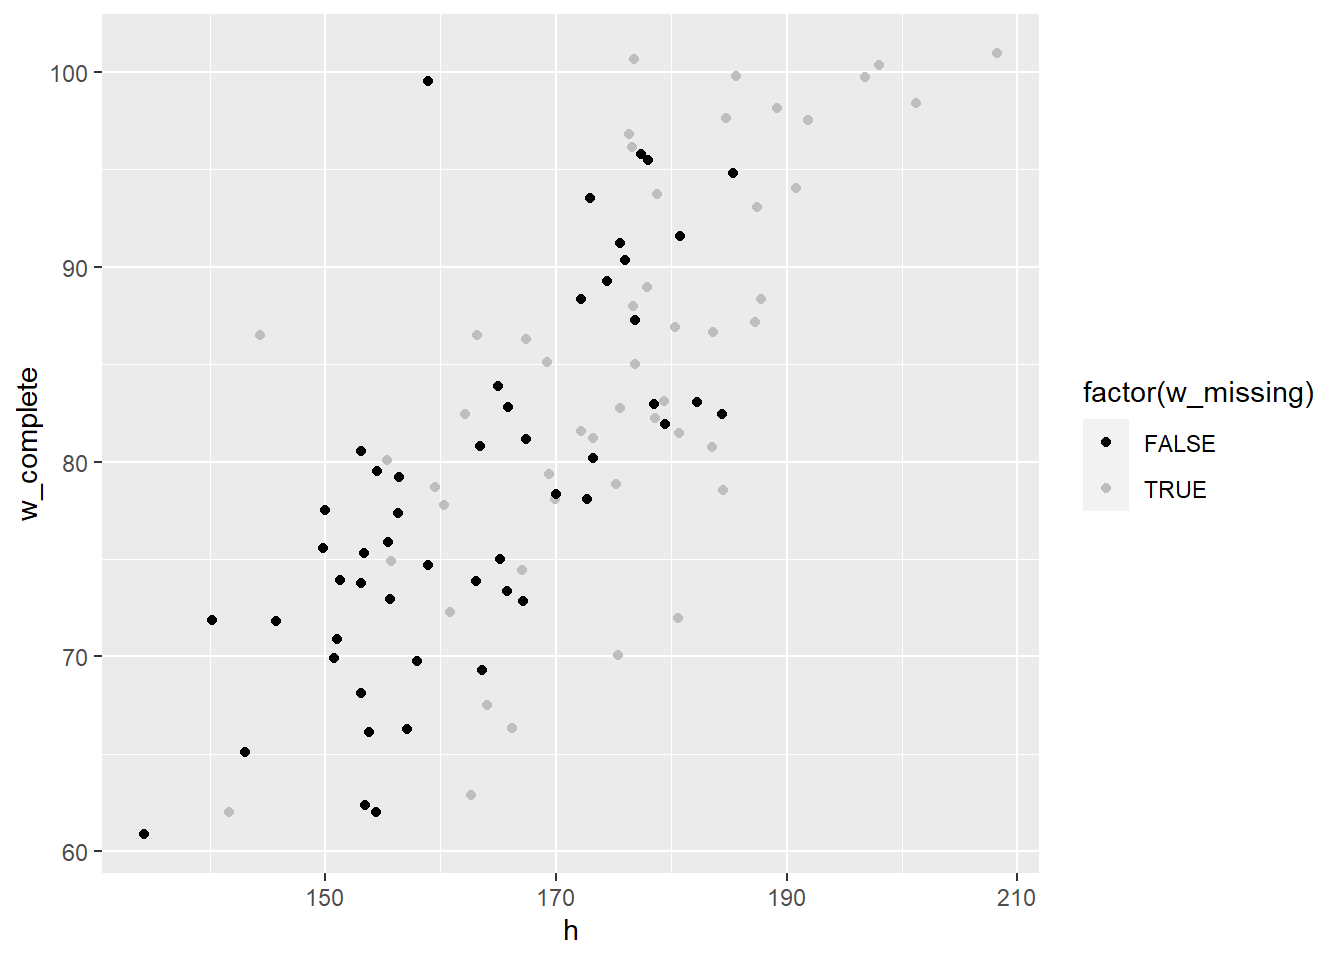
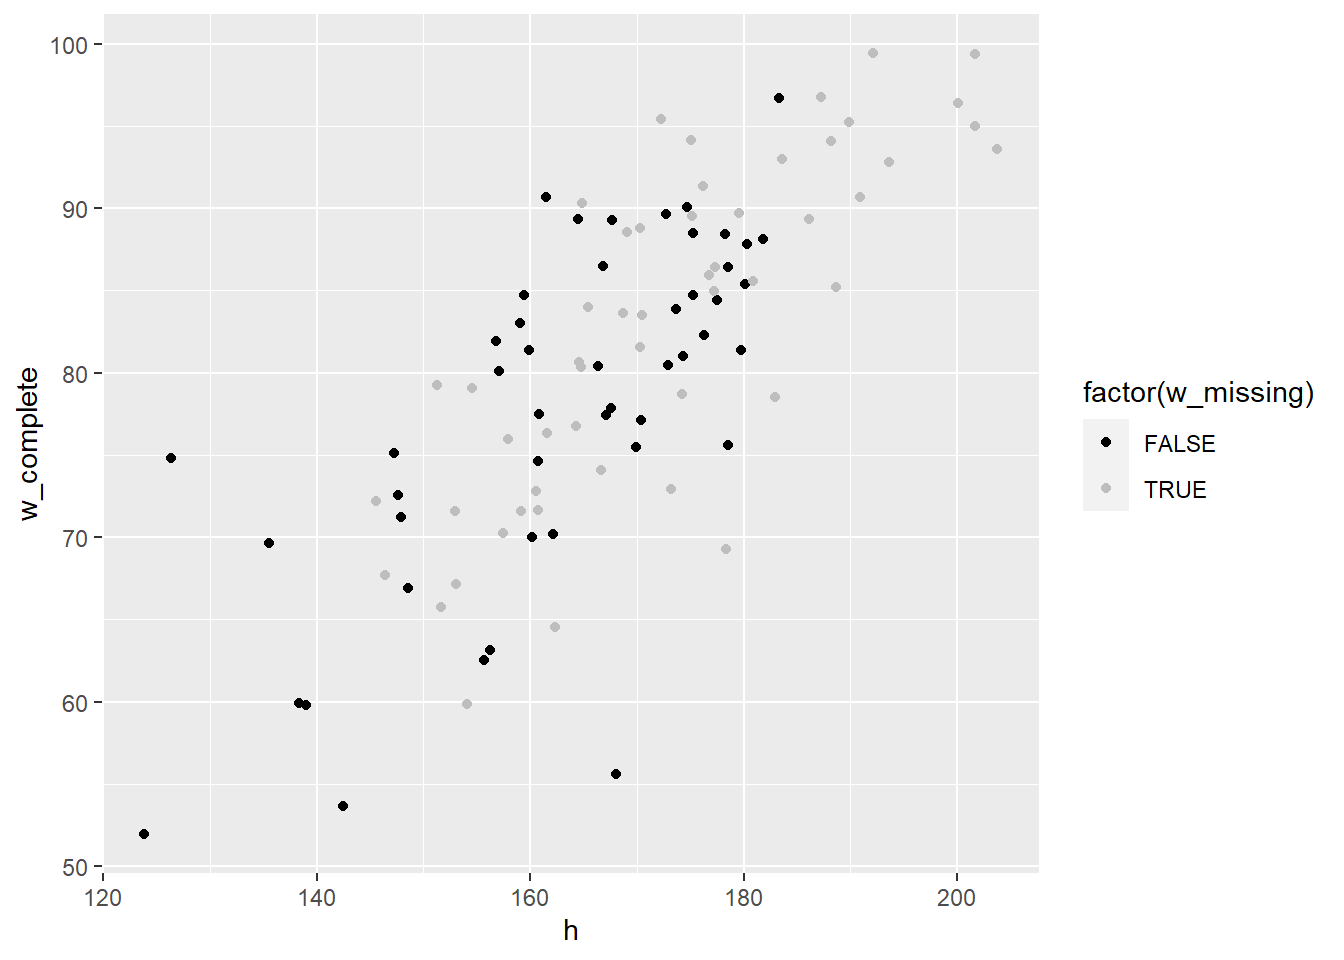
missing data: ad added

diff --git a/2022/03/25/why-single-mean-imputation-is-a-bad-idea-almost-always/index.html b/2022/03/25/why-single-mean-imputation-is-a-bad-idea-almost-always/index.html
@@ -102,6 +102,9 @@
 <p>It is like flipping coin again. But it could be a different coin for different value of explanatory variables.</p>
 <p>If it is neither MCAR nor MAR, it is called <strong>NMAR</strong>. For example, if the missingness of weight is dependent on weight itself, it is NMAR.</p>
 <p>For predictive models, it is sufficient of check if missingness is random conditional on other observed variables. But for causal model, we should consider if there is unobserved variables that might cause or be related to missingness. For now, I will consider only predictive models.<a href="#fn1" class="footnote-ref" id="fnref1"><sup>1</sup></a></p>
+<ul>
+<li>[<strong>AD</strong>] Book for <strong>R power users</strong> : <a href="http://books.sumeun.org/?p=190">Data Analysis with R: Data Preprocessing and Visualization</a></li>
+</ul>
 </div>
 <div id="why-not-just-use-complete-data" class="section level2">
 <h2>Why not just use complete data?</h2>
@@ -143,6 +146,9 @@
 <div id="estimating-mean-y-mar-mean-substitution-1" class="section level2">
 <h2>Estimating mean <span class="math inline">\(y\)</span> : MAR &amp; mean substitution</h2>
 <p>So we would better be using regression mean(estimated weight mean given the height). Using the conditional mean for missing data might lead to too small variance estimate but it is not biased.</p>
+<ul>
+<li>[<strong>AD</strong>] Book for <strong>R power users</strong> : <a href="http://books.sumeun.org/?p=190">Data Analysis with R: Data Preprocessing and Visualization</a></li>
+</ul>
 </div>
 <div id="simulation" class="section level2">
 <h2>Simulation</h2>
@@ -191,22 +197,22 @@ ggplot(dat, aes(x=h, y=w_complete, col=factor(w_missing))) +
 <p>Estimated weight mean from using complete data seems biased.</p>
 <pre class="r"><code>## average weight?
 mean(dat$w_complete)</code></pre>
-<pre><code>## [1] 81.50196</code></pre>
+<pre><code>## [1] 80.40551</code></pre>
 <pre class="r"><code>wmean_est = mean(dat$w, na.rm = TRUE)
 wmean_est</code></pre>
-<pre><code>## [1] 78.40121</code></pre>
+<pre><code>## [1] 77.90547</code></pre>
 <pre class="r"><code>t.test(dat$w)</code></pre>
 <pre><code>## 
 ##  One Sample t-test
 ## 
 ## data:  dat$w
-## t = 59.392, df = 50, p-value &lt; 2.2e-16
+## t = 51.013, df = 47, p-value &lt; 2.2e-16
 ## alternative hypothesis: true mean is not equal to 0
 ## 95 percent confidence interval:
-##  75.74977 81.05265
+##  74.83319 80.97774
 ## sample estimates:
 ## mean of x 
-##  78.40121</code></pre>
+##  77.90547</code></pre>
 </div>
 <div id="mean-substitution" class="section level3">
 <h3>Mean substitution</h3>
@@ -216,21 +222,21 @@ dat$w_imputed &lt;- ifelse(dat$w_missing, w_mean, w)
 
 wmean_est = mean(dat$w_imputed)
 wmean_est</code></pre>
-<pre><code>## [1] 78.40121</code></pre>
+<pre><code>## [1] 77.90547</code></pre>
 <pre class="r"><code>res &lt;- t.test(dat$w_imputed)
 res</code></pre>
 <pre><code>## 
 ##  One Sample t-test
 ## 
 ## data:  dat$w_imputed
-## t = 117.02, df = 99, p-value &lt; 2.2e-16
+## t = 106.86, df = 99, p-value &lt; 2.2e-16
 ## alternative hypothesis: true mean is not equal to 0
 ## 95 percent confidence interval:
-##  77.07186 79.73056
+##  76.45893 79.35200
 ## sample estimates:
 ## mean of x 
-##  78.40121</code></pre>
-<p>The population weight mean is 81.6 but the estimated mean is 78.4. The confidence inteval is 77.07-79.73.</p>
+##  77.90547</code></pre>
+<p>The population weight mean is 81.6 but the estimated mean is 77.91. The confidence inteval is 76.46-79.35.</p>
 </div>
 <div id="regression-imputation" class="section level3">
 <h3>Regression imputation</h3>
@@ -242,35 +248,35 @@ dat$w_imputed &lt;- ifelse(dat$w_missing, w_hat, w)
 
 wmean_est = mean(dat$w_imputed)
 wmean_est</code></pre>
-<pre><code>## [1] 81.63952</code></pre>
+<pre><code>## [1] 80.44631</code></pre>
 <pre class="r"><code>res &lt;- t.test(dat$w_imputed)
 res</code></pre>
 <pre><code>## 
 ##  One Sample t-test
 ## 
 ## data:  dat$w_imputed
-## t = 90.66, df = 99, p-value &lt; 2.2e-16
+## t = 84.369, df = 99, p-value &lt; 2.2e-16
 ## alternative hypothesis: true mean is not equal to 0
 ## 95 percent confidence interval:
-##  79.85274 83.42631
+##  78.55436 82.33827
 ## sample estimates:
 ## mean of x 
-##  81.63952</code></pre>
-<p>Estimated weight value is 81.64, 95%-confidence interval is 79.85-83.43. Compare this with estimated weight mean from listwise-deletion.</p>
+##  80.44631</code></pre>
+<p>Estimated weight value is 80.45, 95%-confidence interval is 78.55-82.34. Compare this with estimated weight mean from listwise-deletion.</p>
 <pre class="r"><code>mean(dat$w_complete)</code></pre>
-<pre><code>## [1] 81.50196</code></pre>
+<pre><code>## [1] 80.40551</code></pre>
 <pre class="r"><code>t.test(dat$w_complete)</code></pre>
 <pre><code>## 
 ##  One Sample t-test
 ## 
 ## data:  dat$w_complete
-## t = 78.695, df = 99, p-value &lt; 2.2e-16
+## t = 75.707, df = 99, p-value &lt; 2.2e-16
 ## alternative hypothesis: true mean is not equal to 0
 ## 95 percent confidence interval:
-##  79.44696 83.55696
+##  78.29816 82.51286
 ## sample estimates:
 ## mean of x 
-##  81.50196</code></pre>
+##  80.40551</code></pre>
 </div>
 </div>
 <div class="footnotes">
